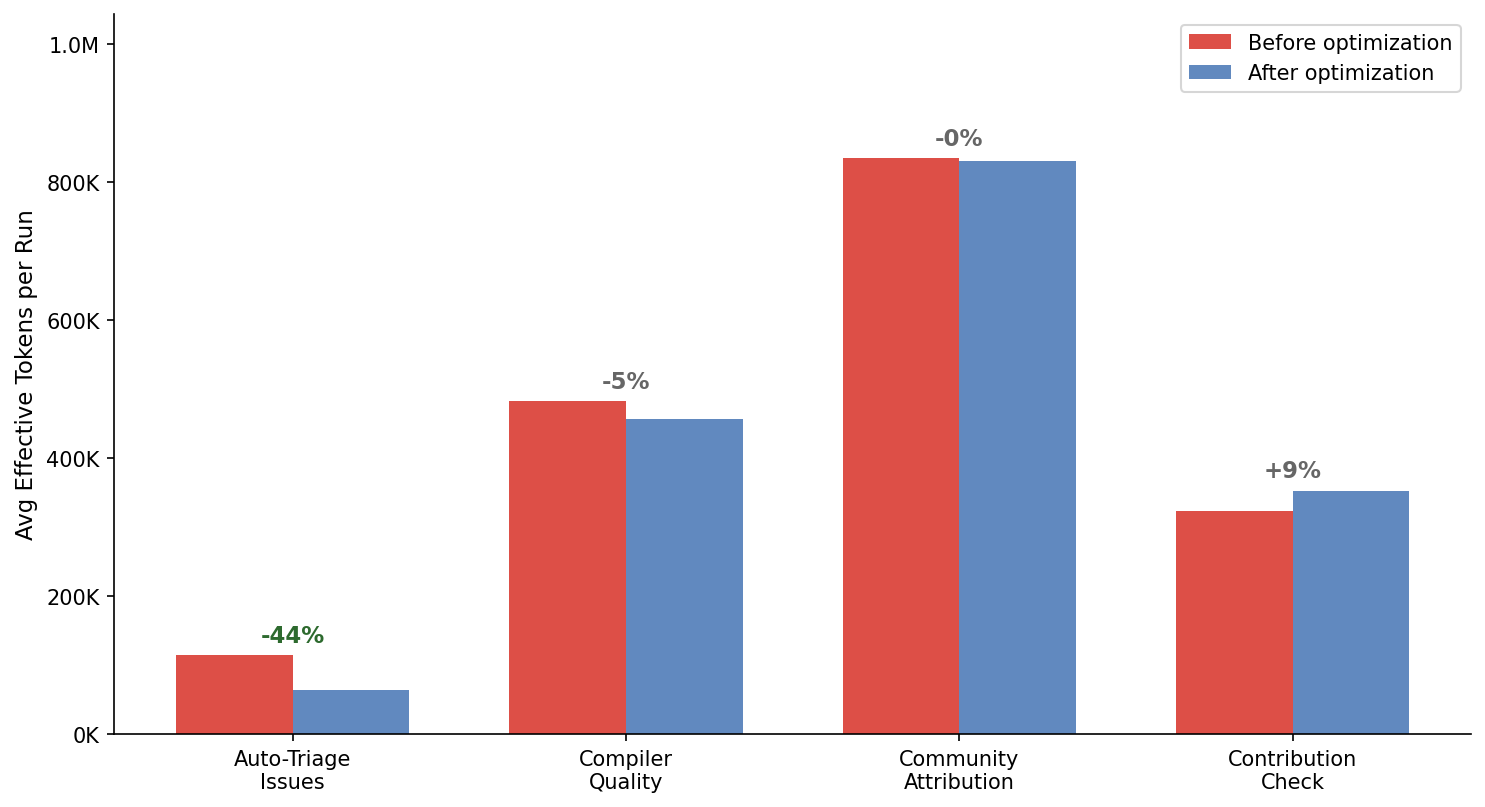
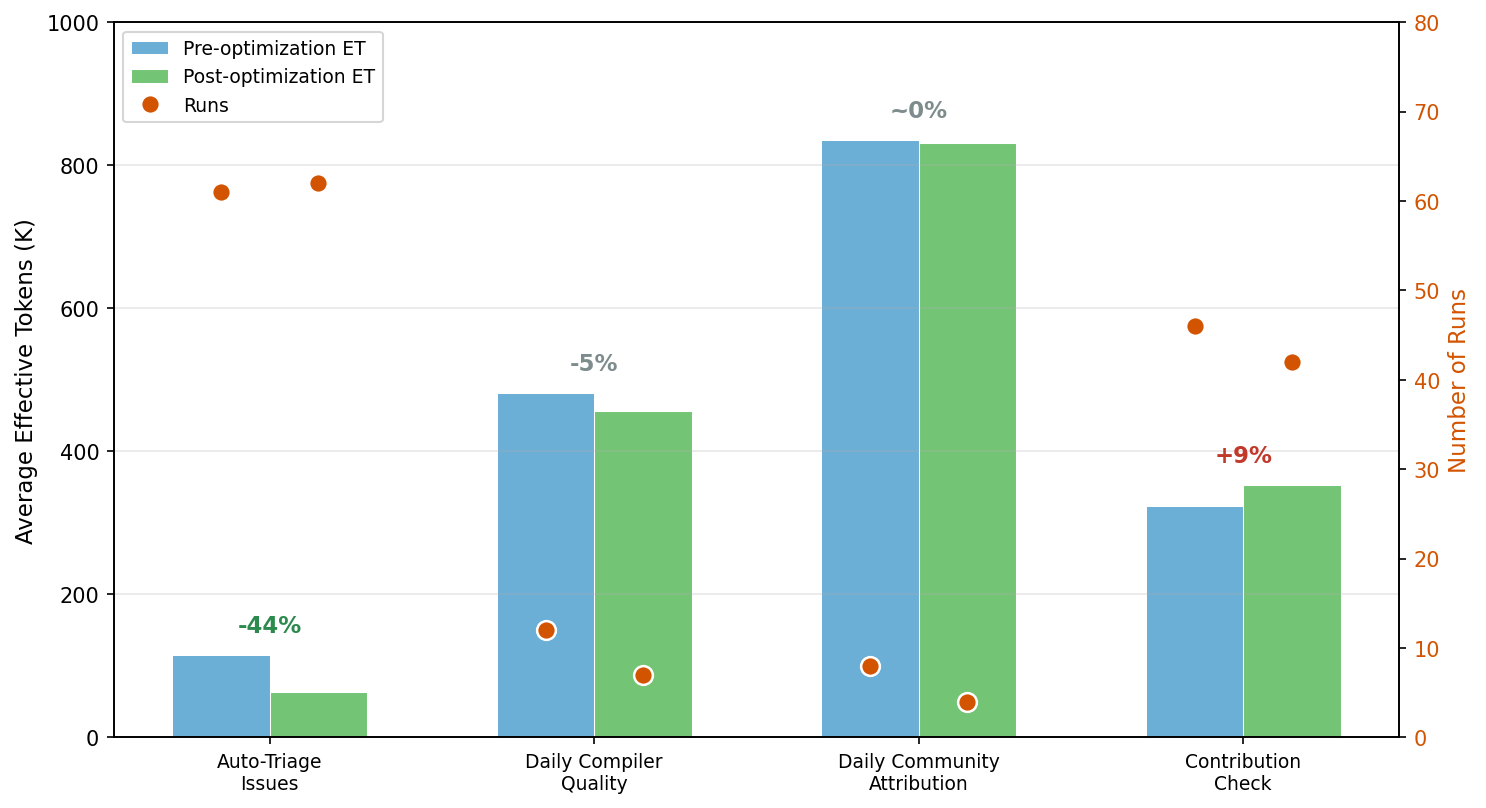
docs: remove table, chart shows run counts

diff --git a/scripts/paper/blog-post-draft.md b/scripts/paper/blog-post-draft.md
@@ -85,13 +85,6 @@ The four workflows with sufficient data show a range of outcomes:
 
 ![Before vs. after optimization across 4 workflows with sufficient data, measured in effective tokens](token-savings-chart-v2.png)
 
-| Workflow | Runs (pre) | Avg ET (pre) | Runs (post) | Avg ET (post) | Change |
-|---|---|---|---|---|---|
-| Auto-Triage Issues | 61 | 115 K | 62 | 64 K | **−44%** |
-| Daily Compiler Quality | 12 | 482 K | 7 | 456 K | −5% |
-| Daily Community Attribution | 8 | 835 K | 4 | 831 K | ~0% |
-| Contribution Check | 46 | 324 K | 42 | 353 K | +9% |
-
 Auto-Triage Issues shows a clear, sustained reduction of 44% across 62 post-fix runs. Daily Compiler Quality shows a modest 5% improvement that is difficult to separate from workload variation. And Daily Community Attribution and Contribution Check show no meaningful improvement in the data we collected.
 
 Run frequency matters as much as per-run savings. Auto-Triage Issues fires on every new issue—averaging 6.5 runs per day with peaks of 15—while the daily quality checks run once per day. Contribution Check fires on every PR at about 4 runs per day. A 44% reduction at 6.5 runs/day compounds quickly: over the observation period, Auto-Triage's optimization saved roughly 3.2 M ET in aggregate, dwarfing the other workflows combined. When prioritizing which workflows to optimize, run frequency is at least as important as per-run consumption.
